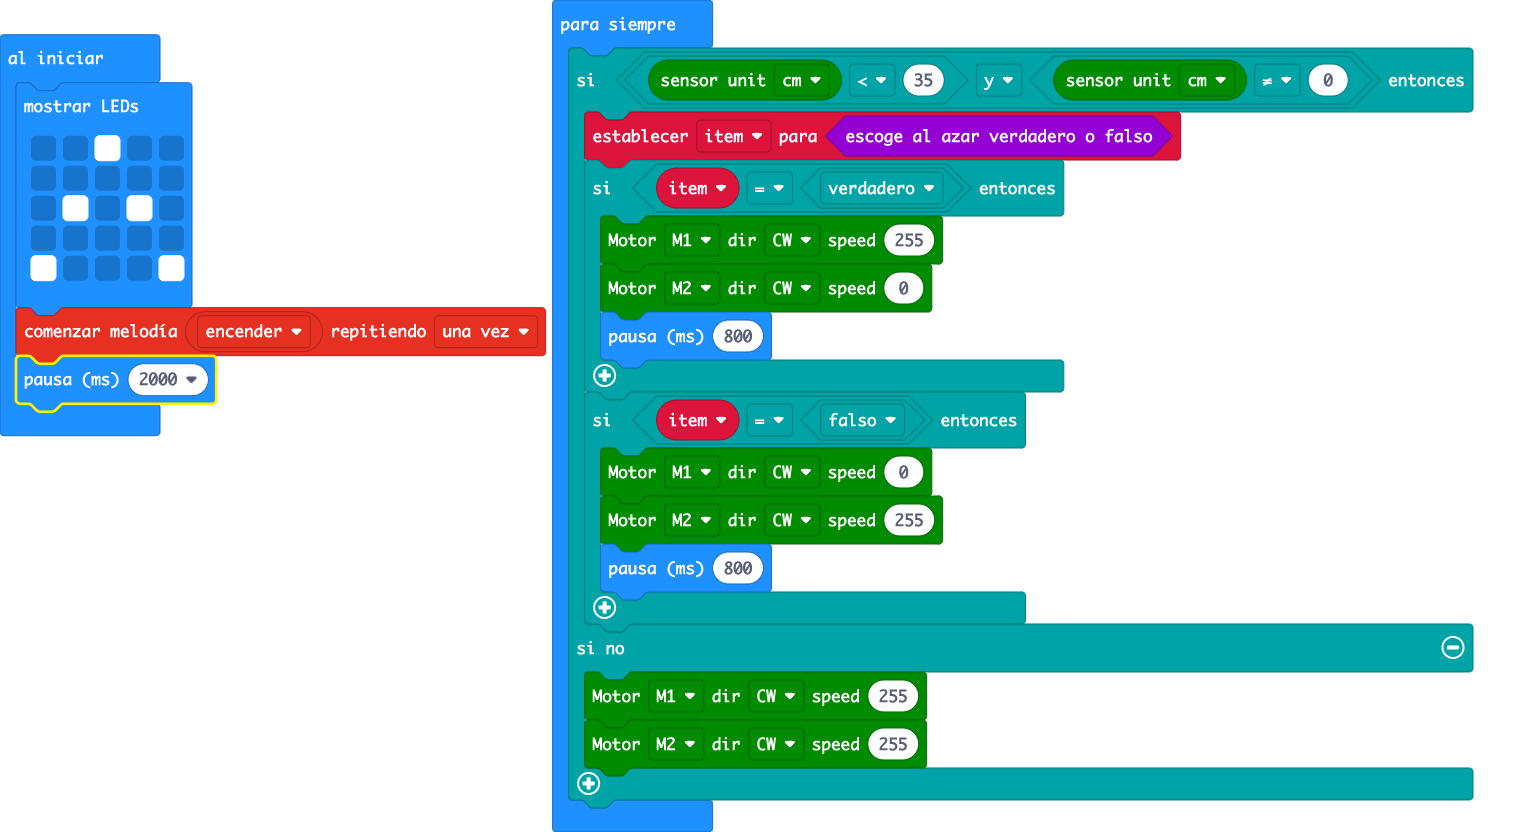
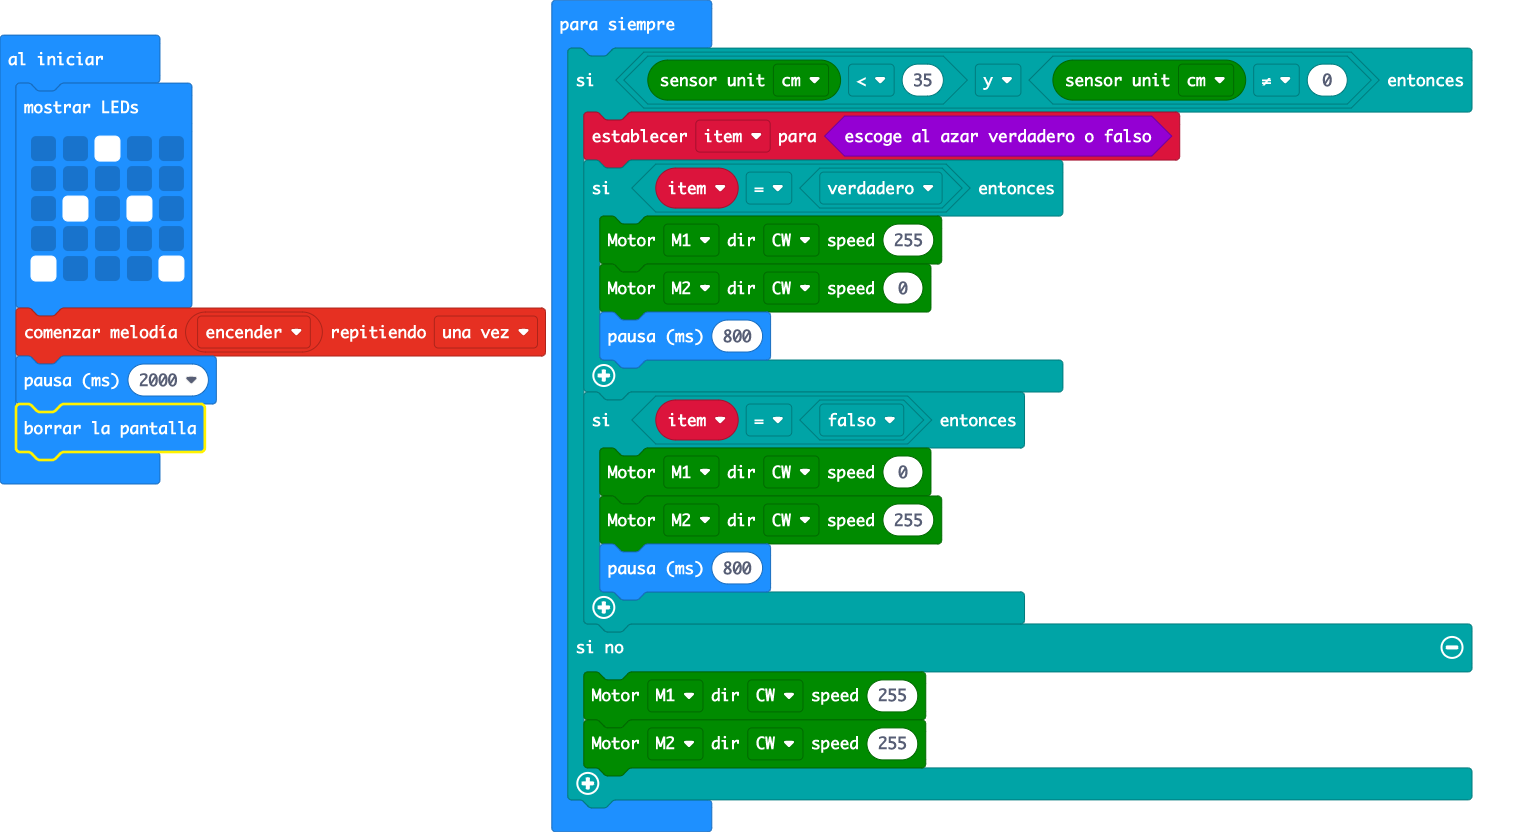
Actualizar main.blocks, main.ts

diff --git a/main.ts b/main.ts
@@ -8,6 +8,7 @@ basic.showLeds(`
     `)
 music.startMelody(music.builtInMelody(Melodies.PowerUp), MelodyOptions.Once)
 basic.pause(2000)
+basic.clearScreen()
 basic.forever(function () {
     if (maqueen.sensor(PingUnit.Centimeters) < 35 && maqueen.sensor(PingUnit.Centimeters) != 0) {
         item = Math.randomBoolean()
